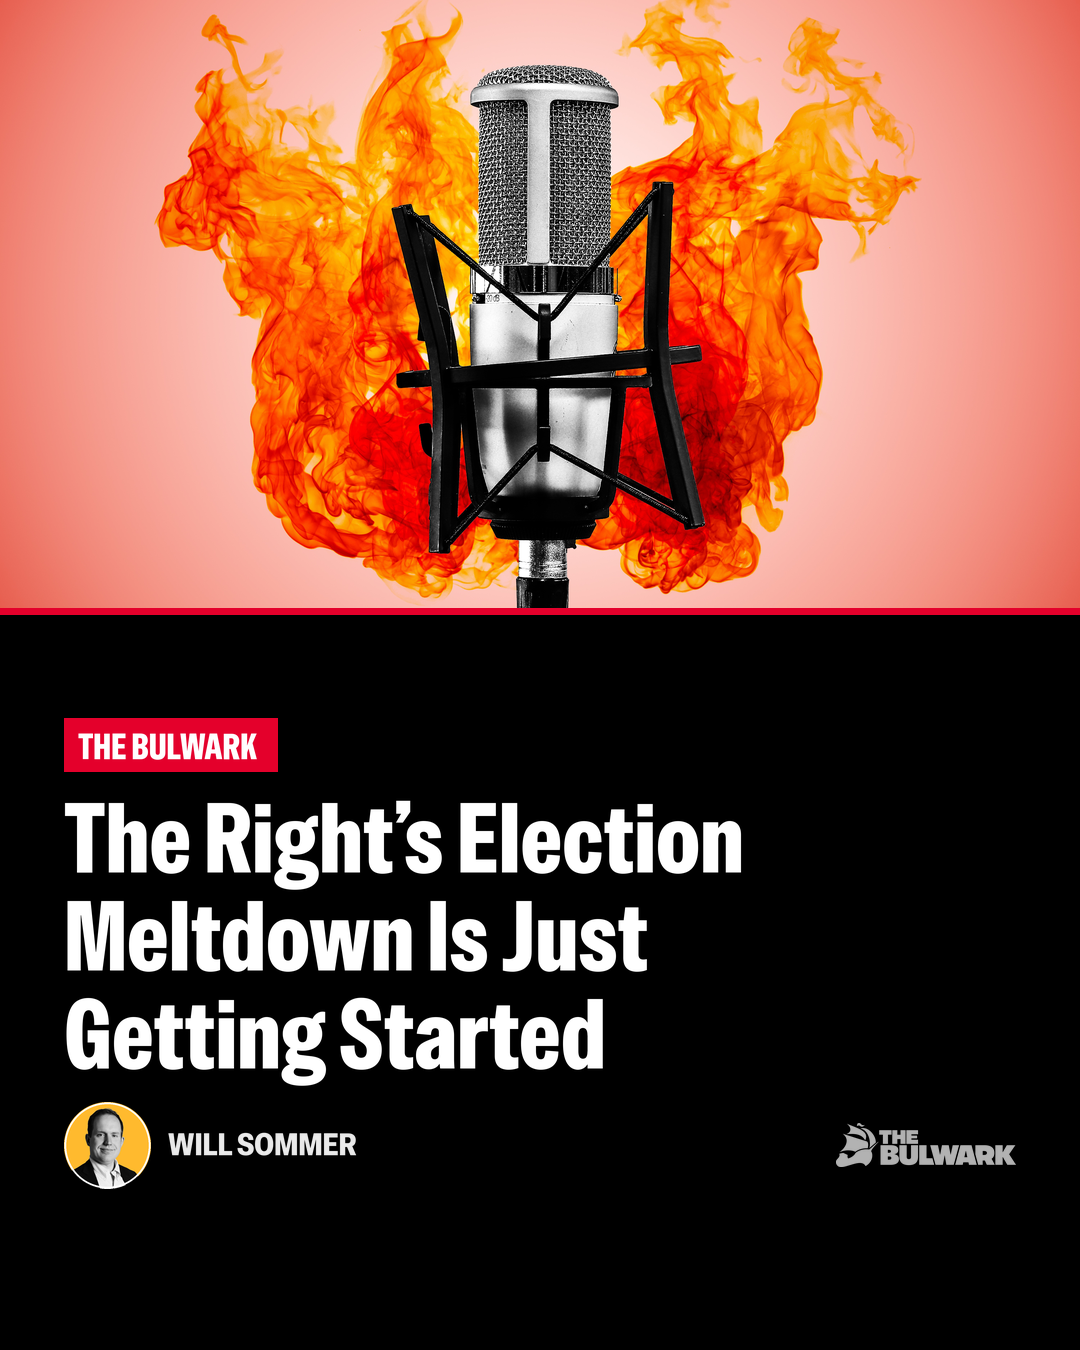
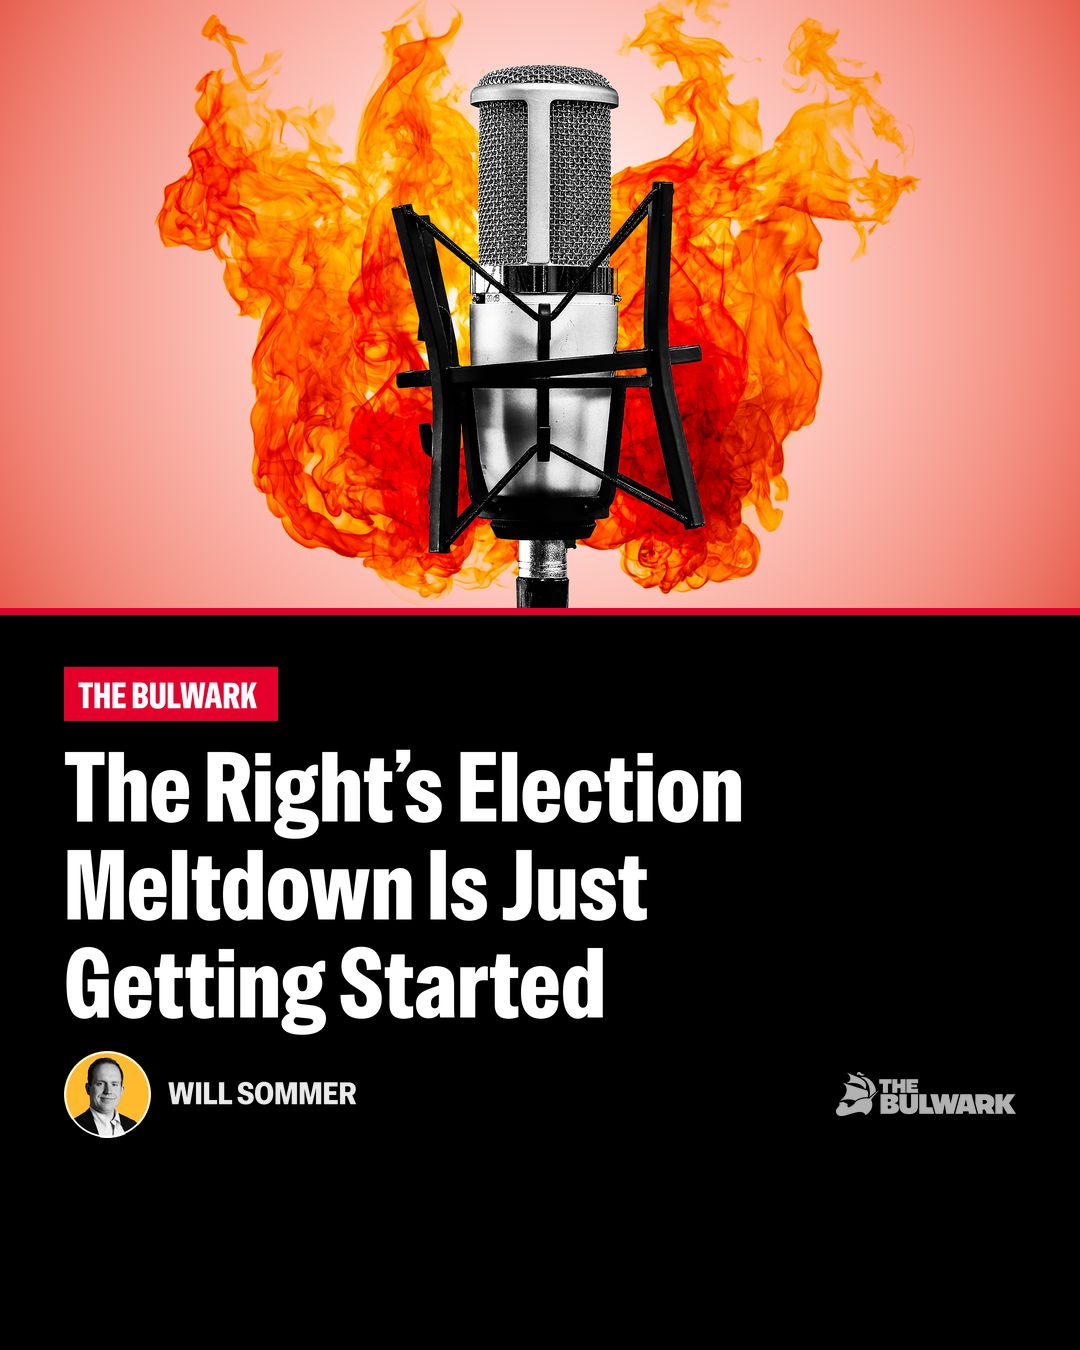
Respect social safe zones; show them on the layout preview
- 9:16: text and logo kept out of top 250px, bottom 420px and the right
  140px button column
- 4:5: text never centres into the bottom 170px link bar (all cards, not
  only appeals)
- layout preview shades each platform's UI zones in red

Claude-Session: https://claude.ai/code/session_01UAoQeeeCy4c2imUr4RfwrB

Changed region(s): [[0.0611, 0.4667, 0.7028, 0.9022], [0.7639, 0.7778, 0.9472, 0.8711]]

diff --git a/render_card.py b/render_card.py
@@ -23,7 +23,9 @@ LAYOUTS = {
     '1x1':  dict(size=(1080, 1080), art=(0, 0, 1080, 608),    text_x=58, text_w=964, text_top=648,  text_bottom=1080, head=82, bias=0.3),
     '4x5':  dict(size=(1080, 1350), art=(0, 0, 1080, 608),    text_x=64, text_w=952, text_top=650,  text_bottom=1350, head=98, center=True, bias=0.3,
                  link_zone=170),   # bottom of the 4:5 frame is where social platforms put the link: copy must not grow into it
-    '9x16': dict(size=(1080, 1920), art=(0, 0, 1080, 608),    text_x=64, text_w=952, text_top=0,    text_bottom=0,    head=112, group=(250, 1600)),
+    # 9:16 safe zone (Reels / TikTok / Stories): top 250px (profile header), bottom 420px (caption, CTA),
+    # right 140px (like / comment / share buttons) are kept clear of text, logo and key art
+    '9x16': dict(size=(1080, 1920), art=(0, 0, 1080, 608),    text_x=64, text_w=852, text_top=0,    text_bottom=0,    head=112, group=(250, 1500)),
     '16x9': dict(size=(1920, 1080), art=(704, 202, 1216, 684), text_x=80, text_w=560, text_top=90,  text_bottom=990,  head=96, center=True, seam='left'),
 }
 
@@ -264,9 +266,9 @@ def render(cfg, base, fmt, out_path, preview=False):
         g0, g1 = L['group']; gap = round(44 * k)
         ay = g0 + max(0, (g1 - g0 - (ah + gap + block_h)) // 2)
         top = ay + ah + gap
-    elif L.get('center') or L['text_bottom'] - L['text_top'] - block_h > 60:   # also centre when lots of room is left
+    elif L.get('center') or L['text_bottom'] - L.get('link_zone', 0) - L['text_top'] - block_h > 60:   # also centre when lots of room is left
         # bias = share of the spare room placed above the text (0.5 = centred; lower sits closer to the art)
-        tb = L['text_bottom']
+        tb = L['text_bottom'] - L.get('link_zone', 0)   # never into the platform's link bar (4:5)
         if show_by and spec_.get('at') == 'bottom' and cfg.get('logo', True):   # never centre into the bottom logo
             tb = spec_['y'] - spec_['h'] - round(36 * k)
         top = top + int(max(0, tb - L['text_top'] - block_h) * L.get('bias', 0.5))
@@ -481,6 +483,18 @@ def main():
         ims = [im.resize((round(im.width * Hs / im.height), Hs), Image.LANCZOS) for im in ims]
         sheet = Image.new('RGB', (sum(im.width for im in ims) + 40 * (len(ims) + 1), Hs + 80), (60, 60, 60)); x = 40
         for im in ims: sheet.paste(im, (x, 40)); x += im.width + 40
+        # platform UI overlays, drawn on the sheet only: red = covered by app UI, keep important things out
+        UI = {'9x16': [(0, 0, 1080, 250, 'profile / header'), (0, 1500, 1080, 1920, 'caption / CTA'), (940, 250, 1080, 1500, 'buttons')],
+              '4x5': [(0, 1180, 1080, 1350, 'link / CTA bar')]}
+        x = 40
+        for f, im in zip(fmts, ims):
+            CW, CH = LAYOUTS[f]['size']; sc = Hs / CH
+            ov = Image.new('RGBA', im.size, (0, 0, 0, 0)); d = ImageDraw.Draw(ov)
+            for x0, y0, x1, y1, lab in UI.get(f, []):
+                d.rectangle((x0 * sc, y0 * sc, x1 * sc, y1 * sc), fill=(255, 40, 40, 70), outline=(255, 60, 60, 220), width=2)
+                d.text((x0 * sc + 6, y0 * sc + 4), lab, fill=(255, 255, 255, 230), font=font(700, 90, 16))
+            base_ = sheet.crop((x, 40, x + im.width, 40 + im.height)).convert('RGBA'); base_.alpha_composite(ov)
+            sheet.paste(base_.convert('RGB'), (x, 40)); x += im.width + 40
         sheet.save(f'{prefix}_layout_preview.png'); print('preview', f'{prefix}_layout_preview.png', flush=True)
         return
     for f in fmts:

diff --git a/README.md b/README.md
@@ -38,7 +38,7 @@ Add `"art_still"` (the article's still image) to the article settings, then:
 python3 render_card.py articles/<slug>/article.json --preview
 ```
 
-In about 3 seconds this writes one still per format, plus `out/<slug>_layout_preview.png` showing all four side by side, with every text element on screen. **Send the side-by-side image to the requester and wait for their reaction** before animating the art or rendering video. Copy, wrap and sizing fixes are cheap at this stage.
+In about 3 seconds this writes one still per format, plus `out/<slug>_layout_preview.png` showing all four side by side, with every text element on screen. The side-by-side image shades the areas each platform's UI covers in red: 9:16 top 250px (profile header), bottom 420px (caption, CTA) and right 140px (like/comment/share buttons), plus the 4:5 bottom 170px (link bar). The layouts keep text, the logo and the byline out of these; check that the art's key subject is clear of them too. **Send the side-by-side image to the requester and wait for their reaction** before animating the art or rendering video. Copy, wrap and sizing fixes are cheap at this stage.
 
 ### 1. Make the art loop (a seamless 16:9 video, 10s works well)
 
